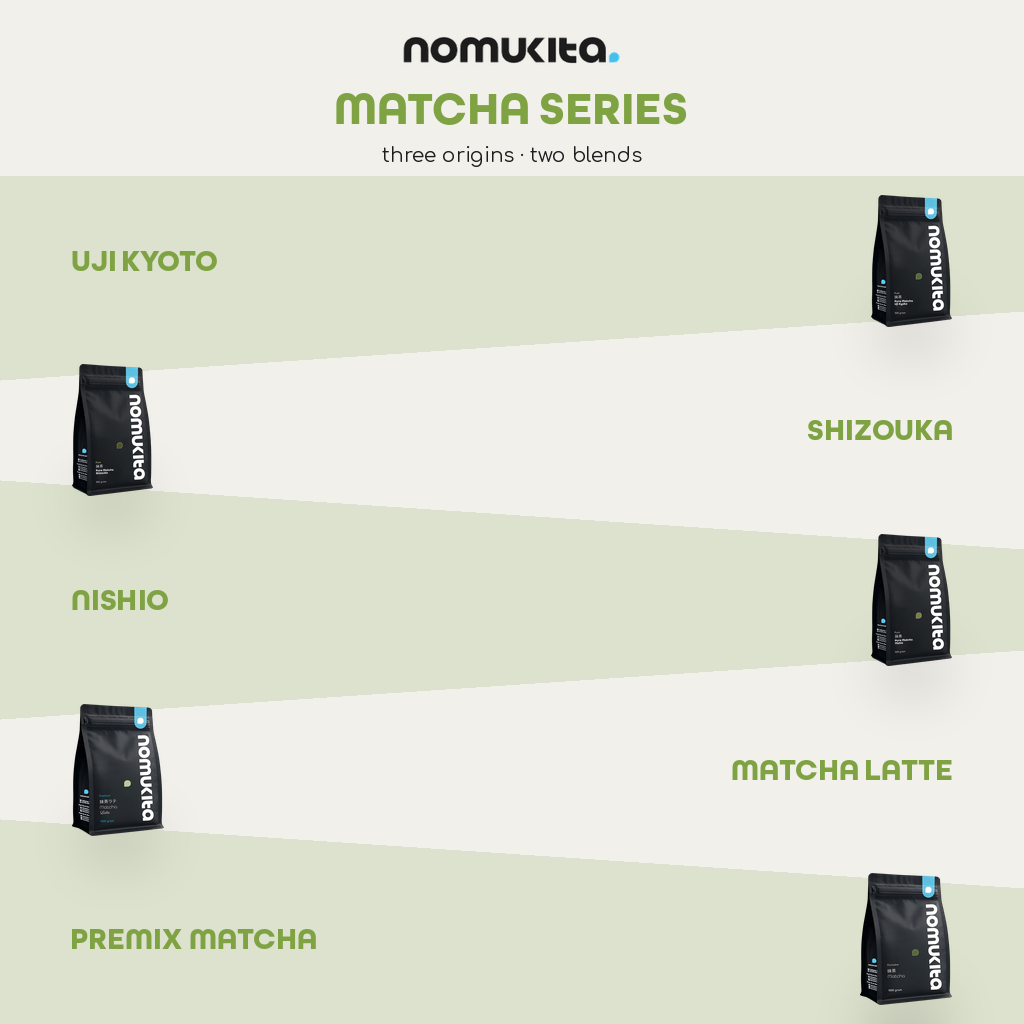
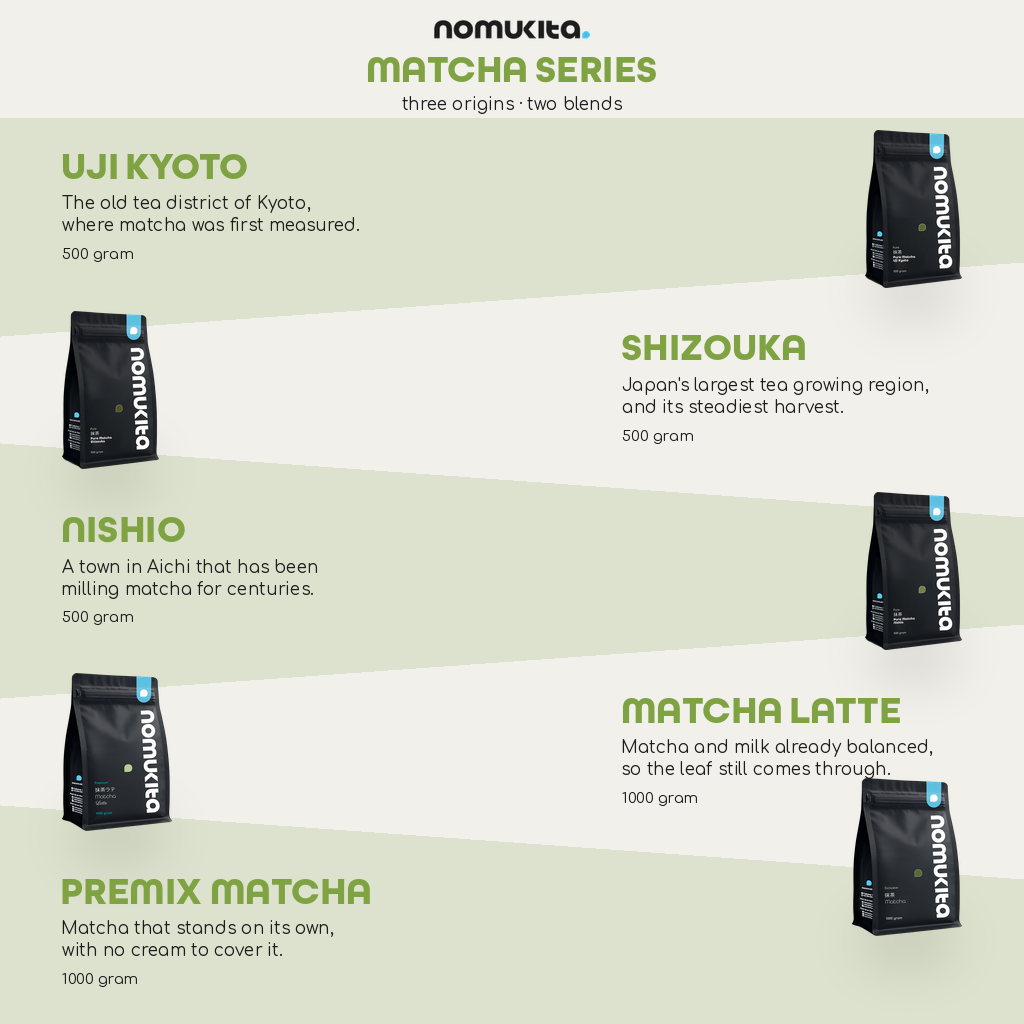
Put the copy back into the single square Matcha Series
The first square dropped every line of body text because five bands inside 1024
left 170 px each and nothing but the product name fitted. That threw away the
one thing the long form page was for.

Trimming the header from 176 px to 118 px and scaling the type to the 181 px
band brings it back: the text block lands at 110 px with 35 px clear above and
below. The pouch does not shrink with the type, because at that size its label
is the only thing distinguishing three otherwise identical Pure Matcha bags.

The pouch centres on its band unless that pushes it off the canvas. The last
band centres at y 933, and a 158 px pouch centred there ends 12 px from the
bottom while the sides carry 62 px, with the drop shadow reaching 26 px further
still. It is clamped to the same margin as the sides.

Changed region(s): [[0.0, 0.0, 1.0, 1.0]]

diff --git a/nomukita-carousel/render_longform.py b/nomukita-carousel/render_longform.py
@@ -213,17 +213,24 @@ def build(series="matcha", out="longform.png"):
 
 # ── versi 1:1 ────────────────────────────────────────────────────────────────
 #
-# Marketplace meminta 1:1, jadi bentuk panjang acuannya harus dilipat ke dalam
-# 1024 x 1024. Kepala halaman memakan 176 px dan sisanya dibagi lima, sehingga
-# tiap pita tinggal 170 px - kurang dari sepertiga tinggi pita acuan. Yang tidak
-# muat pada tinggi segitu dibuang, bukan dikecilkan sampai tidak terbaca: dua
-# baris keterangan dan baris berat tidak dipertahankan di sini, dan nama produk
-# yang membawa seluruh isinya.
+# Marketplace meminta 1:1, jadi bentuk panjang acuannya dilipat ke 1024 x 1024.
+# Percobaan pertama menyisakan 170 px per pita dan naskahnya terpaksa dibuang,
+# tinggal nama produk - padahal keterangan itulah isi halaman panjangnya.
+#
+# Yang mengembalikannya: kepala halaman dipangkas dari 176 px jadi 118 px, dan
+# seluruh tipografinya diperkecil sesuai pita 181 px. Blok teksnya jadi setinggi
+# 110 px, menyisakan 35 px lapang di atas dan di bawahnya. Yang tidak ikut
+# dikecilkan adalah pouch-nya: ia tetap 158 px supaya labelnya masih terbaca.
 SQ = 1024
-SQ_HEADER = 176
-SQ_POUCH_H = 132
-SQ_NAME_SIZE = 30
-SQ_SIDE = 72
+SQ_HEADER = 118
+SQ_POUCH_H = 158
+SQ_NAME_SIZE = 38
+SQ_SUB_SIZE = 17
+SQ_SUB_LEAD = 22
+SQ_HEAD_TO_SUB = 16
+SQ_WEIGHT_SIZE = 15
+SQ_WEIGHT_GAP = 14
+SQ_SIDE = 62
 
 
 def build_square(series="matcha", out="longform_square.png"):
@@ -249,27 +256,43 @@ def build_square(series="matcha", out="longform_square.png"):
 
     c = Image.new("RGBA", (SQ, SQ), (0, 0, 0, 0))
     logo = Image.open(f"{bs.ASSETS}/logo_nomukita.png").convert("RGBA")
-    lw = round(logo.width * 0.72)
-    logo = logo.resize((lw, round(logo.height * 0.72)), Image.LANCZOS)
-    c.alpha_composite(logo, ((SQ - lw) // 2, 34))
-    big = bs.build_headline(spec["head"], 46, bs.MATCHA_GREEN)
-    c.alpha_composite(big, ((SQ - big.width) // 2, 92))
-    bs.draw_text_top(c, spec["subtitle"], ImageFont.truetype(bs.F_BODY, 20),
-                     bs.CHARCOAL, SQ // 2, 146)
+    lw = round(logo.width * 0.52)
+    c.alpha_composite(logo.resize((lw, round(logo.height * 0.52)), Image.LANCZOS),
+                      ((SQ - lw) // 2, 18))
+    big = bs.build_headline(spec["head"], 38, bs.MATCHA_GREEN)
+    c.alpha_composite(big, ((SQ - big.width) // 2, 56))
+    bs.draw_text_top(c, spec["subtitle"], ImageFont.truetype(bs.F_BODY, 17),
+                     bs.CHARCOAL, SQ // 2, 96)
+
+    sub_f = ImageFont.truetype(bs.F_BODY, SQ_SUB_SIZE)
+    weight_f = ImageFont.truetype(bs.F_BODY, SQ_WEIGHT_SIZE)
 
     for i, (name, sub, weight, mock) in enumerate(members):
         mid = edges[i] + band_h / 2
         text_left = (i % 2 == 0)
 
         head = bs.build_headline(name, SQ_NAME_SIZE, bs.MATCHA_GREEN)
-        x = SQ_SIDE if text_left else SQ - SQ_SIDE - head.width
-        c.alpha_composite(head, (round(x), round(mid - head.height / 2)))
+        block_h = (head.height + SQ_HEAD_TO_SUB + SQ_SUB_LEAD * (len(sub) - 1)
+                   + SQ_SUB_SIZE + SQ_WEIGHT_GAP + SQ_WEIGHT_SIZE)
+        top = mid - block_h / 2
+        x = SQ_SIDE if text_left else SQ - SQ_SIDE - 340
+        c.alpha_composite(head, (round(x), round(top)))
+        end = _text_block(c, sub, sub_f, bs.CHARCOAL, x,
+                          top + head.height + SQ_HEAD_TO_SUB, SQ_SUB_LEAD)
+        _text_block(c, [weight], weight_f, bs.CHARCOAL, x,
+                    end - SQ_SUB_LEAD + SQ_WEIGHT_GAP + SQ_SUB_SIZE, 0)
 
         im = Image.open(f"{bs.PROD}/{mock}").convert("RGBA")
         im = im.crop(im.getbbox())
         pw = round(im.width * SQ_POUCH_H / im.height)
         px = SQ - SQ_SIDE - pw if text_left else SQ_SIDE
-        py = mid - SQ_POUCH_H / 2
+        # Dipusatkan pada pitanya, kecuali kalau itu membuatnya menembus tepi.
+        # Pusat pita terakhir jatuh di y 933, dan pouch setinggi 158 yang
+        # dipusatkan di sana berakhir 12 px dari dasar kanvas - sementara sisi
+        # kiri dan kanannya bermargin 62. Bayangan jatuhnya menjulur 26 px lagi
+        # di bawah itu.
+        py = min(max(mid - SQ_POUCH_H / 2, SQ_SIDE),
+                 SQ - SQ_SIDE - 26 - SQ_POUCH_H)
         _drop_shadow(c, px, py, pw, SQ_POUCH_H)
         c.alpha_composite(im.resize((pw, SQ_POUCH_H), Image.LANCZOS),
                           (round(px), round(py)))

diff --git a/nomukita-carousel/README.md b/nomukita-carousel/README.md
@@ -452,9 +452,16 @@ daripada pitanya sendiri - sehingga batas atas dan batas bawah saling menyeberan
 dan pitanya pecah menjadi baji. Dengan perbandingan yang benar, kemiringannya
 jadi 0,068 dan pitanya utuh.
 
-**Yang satu bidang membuang naskahnya.** Lima pita di dalam 1024 x 1024 menyisakan
-170 px per pita, dan pada tinggi itu dua baris keterangan tidak muat sama sekali;
-yang tersisa hanya nama produk. Padahal keterangan itulah isi halaman panjangnya.
+**Yang satu bidang tetap membawa naskahnya.** Percobaan pertama menyisakan 170 px
+per pita dan naskahnya terpaksa dibuang, tinggal nama produk - padahal keterangan
+itulah isi halaman panjangnya. Yang mengembalikannya: kepala halaman dipangkas
+dari 176 px jadi 118 px, dan seluruh tipografinya diperkecil sesuai pita 181 px.
+Blok teksnya jadi setinggi 110 px, menyisakan 35 px lapang di atas dan bawahnya.
+Pouch-nya tidak ikut dikecilkan supaya labelnya masih terbaca.
+
+Pouch dipusatkan pada pitanya, kecuali kalau itu membuatnya menembus tepi. Pusat
+pita terakhir jatuh di y 933, dan pouch setinggi 158 yang dipusatkan di sana
+berakhir 12 px dari dasar kanvas sementara sisi kiri-kanannya bermargin 62.
 
 Karena Shopee dan TikTok Shop sama-sama menerima sembilan gambar, versi lima
 bidang memberi tiap anggota satu kanvas penuh: pita diagonal, naskah, berat, dan
